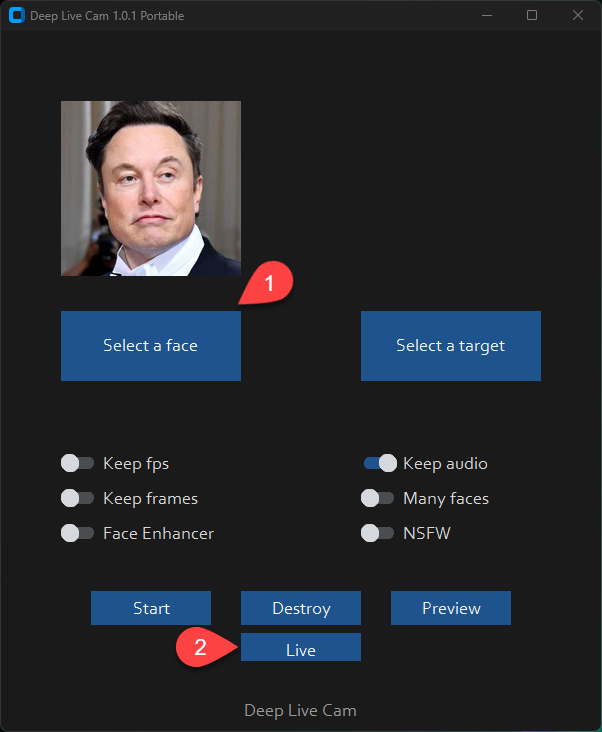
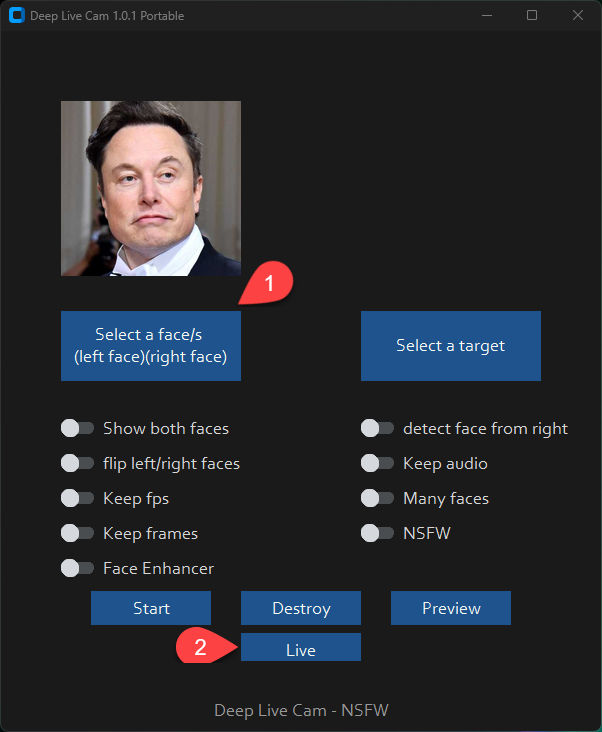
Added new two face feature for webcam, video and image

diff --git a/modules/ui.py b/modules/ui.py
@@ -7,7 +7,7 @@ from PIL import Image, ImageOps
 
 import modules.globals
 import modules.metadata
-from modules.face_analyser import get_one_face
+from modules.face_analyser import get_one_face, get_one_face_left, get_one_face_right
 from modules.capturer import get_video_frame, get_video_frame_total
 from modules.processors.frame.core import get_frame_processors_modules
 from modules.utilities import is_image, is_video, resolve_relative_path
@@ -61,36 +61,48 @@ def create_root(start: Callable[[], None], destroy: Callable[[], None]) -> ctk.C
     target_label = ctk.CTkLabel(root, text=None)
     target_label.place(relx=0.6, rely=0.1, relwidth=0.3, relheight=0.25)
 
-    select_face_button = ctk.CTkButton(root, text='Select a face', cursor='hand2', command=lambda: select_source_path())
+    select_face_button = ctk.CTkButton(root, text='Select a face/s \n(left face)(right face)', cursor='hand2', command=lambda: select_source_path())
     select_face_button.place(relx=0.1, rely=0.4, relwidth=0.3, relheight=0.1)
 
     select_target_button = ctk.CTkButton(root, text='Select a target', cursor='hand2', command=lambda: select_target_path())
     select_target_button.place(relx=0.6, rely=0.4, relwidth=0.3, relheight=0.1)
 
+    both_faces_value = ctk.BooleanVar(value=modules.globals.both_faces)
+    both_faces_checkbox = ctk.CTkSwitch(root, text='Show both faces', variable=both_faces_value, cursor='hand2', command=lambda: setattr(modules.globals, 'both_faces', not modules.globals.both_faces))
+    both_faces_checkbox.place(relx=0.1, rely=0.55)
+
+    flip_faces_value = ctk.BooleanVar(value=modules.globals.flip_faces)
+    flip_faces_checkbox = ctk.CTkSwitch(root, text='Flip left/right faces', variable=flip_faces_value, cursor='hand2', command=lambda: setattr(modules.globals, 'flip_faces', not modules.globals.flip_faces))
+    flip_faces_checkbox.place(relx=0.1, rely=0.60)
+
     keep_fps_value = ctk.BooleanVar(value=modules.globals.keep_fps)
     keep_fps_checkbox = ctk.CTkSwitch(root, text='Keep fps', variable=keep_fps_value, cursor='hand2', command=lambda: setattr(modules.globals, 'keep_fps', not modules.globals.keep_fps))
-    keep_fps_checkbox.place(relx=0.1, rely=0.6)
+    keep_fps_checkbox.place(relx=0.1, rely=0.65)
 
     keep_frames_value = ctk.BooleanVar(value=modules.globals.keep_frames)
     keep_frames_switch = ctk.CTkSwitch(root, text='Keep frames', variable=keep_frames_value, cursor='hand2', command=lambda: setattr(modules.globals, 'keep_frames', keep_frames_value.get()))
-    keep_frames_switch.place(relx=0.1, rely=0.65)
+    keep_frames_switch.place(relx=0.1, rely=0.70)
 
     # for FRAME PROCESSOR ENHANCER tumbler:
     enhancer_value = ctk.BooleanVar(value=modules.globals.fp_ui['face_enhancer'])
     enhancer_switch = ctk.CTkSwitch(root, text='Face Enhancer', variable=enhancer_value, cursor='hand2', command=lambda: update_tumbler('face_enhancer',enhancer_value.get()))
-    enhancer_switch.place(relx=0.1, rely=0.7)
+    enhancer_switch.place(relx=0.1, rely=0.75)
+
+    detect_face_right_value = ctk.BooleanVar(value=modules.globals.detect_face_right)
+    detect_face_right_checkbox = ctk.CTkSwitch(root, text='Detect face from right', variable=detect_face_right_value, cursor='hand2', command=lambda: setattr(modules.globals, 'detect_face_right', not modules.globals.detect_face_right))
+    detect_face_right_checkbox.place(relx=0.6, rely=0.55)
 
     keep_audio_value = ctk.BooleanVar(value=modules.globals.keep_audio)
     keep_audio_switch = ctk.CTkSwitch(root, text='Keep audio', variable=keep_audio_value, cursor='hand2', command=lambda: setattr(modules.globals, 'keep_audio', keep_audio_value.get()))
-    keep_audio_switch.place(relx=0.6, rely=0.6)
+    keep_audio_switch.place(relx=0.6, rely=0.60)
 
     many_faces_value = ctk.BooleanVar(value=modules.globals.many_faces)
     many_faces_switch = ctk.CTkSwitch(root, text='Many faces', variable=many_faces_value, cursor='hand2', command=lambda: setattr(modules.globals, 'many_faces', many_faces_value.get()))
     many_faces_switch.place(relx=0.6, rely=0.65)
 
-#    nsfw_value = ctk.BooleanVar(value=modules.globals.nsfw)
-#    nsfw_switch = ctk.CTkSwitch(root, text='NSFW', variable=nsfw_value, cursor='hand2', command=lambda: setattr(modules.globals, 'nsfw', nsfw_value.get()))
-#    nsfw_switch.place(relx=0.6, rely=0.7)
+  #  nsfw_value = ctk.BooleanVar(value=modules.globals.nsfw)
+  #  nsfw_switch = ctk.CTkSwitch(root, text='NSFW', variable=nsfw_value, cursor='hand2', command=lambda: setattr(modules.globals, 'nsfw', nsfw_value.get()))
+  #  nsfw_switch.place(relx=0.6, rely=0.7)
 
     start_button = ctk.CTkButton(root, text='Start', cursor='hand2', command=lambda: select_output_path(start))
     start_button.place(relx=0.15, rely=0.80, relwidth=0.2, relheight=0.05)
@@ -239,9 +251,17 @@ def update_preview(frame_number: int = 0) -> None:
             from modules.predicter import predict_frame
             if predict_frame(temp_frame):
                 quit()
+        
+        source_image_left = None  # Initialize variable for the selected face image
+        source_image_right = None  # Initialize variable for the selected face image
+        
+        if source_image_left is None and modules.globals.source_path:
+            source_image_left = get_one_face_left(cv2.imread(modules.globals.source_path))
+        if source_image_right is None and modules.globals.source_path:
+            source_image_right = get_one_face_right(cv2.imread(modules.globals.source_path))
+
         for frame_processor in get_frame_processors_modules(modules.globals.frame_processors):
-            temp_frame = frame_processor.process_frame(
-                get_one_face(cv2.imread(modules.globals.source_path)),
+            temp_frame = frame_processor.process_frame([source_image_left,source_image_right],
                 temp_frame
             )
         image = Image.fromarray(cv2.cvtColor(temp_frame, cv2.COLOR_BGR2RGB))
@@ -269,21 +289,24 @@ def webcam_preview():
 
     frame_processors = get_frame_processors_modules(modules.globals.frame_processors)
 
-    source_image = None  # Initialize variable for the selected face image
+    source_image_left = None  # Initialize variable for the selected face image
+    source_image_right = None  # Initialize variable for the selected face image
+
+    # Select and save face image only once
+    if source_image_left is None and modules.globals.source_path:
+        source_image_left = get_one_face_left(cv2.imread(modules.globals.source_path))
+    if source_image_right is None and modules.globals.source_path:
+        source_image_right = get_one_face_right(cv2.imread(modules.globals.source_path))
 
     while True:
         ret, frame = cap.read()
         if not ret:
             break
 
-        # Select and save face image only once
-        if source_image is None and modules.globals.source_path:
-            source_image = get_one_face(cv2.imread(modules.globals.source_path))
-
         temp_frame = frame.copy()  #Create a copy of the frame
 
         for frame_processor in frame_processors:
-            temp_frame = frame_processor.process_frame(source_image, temp_frame)
+            temp_frame = frame_processor.process_frame([source_image_left,source_image_right], temp_frame)
 
         image = cv2.cvtColor(temp_frame, cv2.COLOR_BGR2RGB)  # Convert the image to RGB format to display it with Tkinter
         image = Image.fromarray(image)

diff --git a/modules/processors/frame/face_swapper.py b/modules/processors/frame/face_swapper.py
@@ -6,7 +6,7 @@ import threading
 import modules.globals
 import modules.processors.frame.core
 from modules.core import update_status
-from modules.face_analyser import get_one_face, get_many_faces
+from modules.face_analyser import get_one_face, get_many_faces, get_one_face_left, get_one_face_right
 from modules.typing import Face, Frame
 from modules.utilities import conditional_download, resolve_relative_path, is_image, is_video
 
@@ -48,25 +48,64 @@ def swap_face(source_face: Face, target_face: Face, temp_frame: Frame) -> Frame:
     return get_face_swapper().get(temp_frame, target_face, source_face, paste_back=True)
 
 
-def process_frame(source_face: Face, temp_frame: Frame) -> Frame:
+def process_frame(source_face: List[Face], temp_frame: Frame) -> Frame:
     if modules.globals.many_faces:
         many_faces = get_many_faces(temp_frame)
         if many_faces:
             for target_face in many_faces:
-                temp_frame = swap_face(source_face, target_face, temp_frame)
+                temp_frame = swap_face(source_face[0], target_face, temp_frame)
     else:
-        target_face = get_one_face(temp_frame)
-        if target_face:
-            temp_frame = swap_face(source_face, target_face, temp_frame)
+        target_faces = get_two_faces(temp_frame)
+        if len(target_faces) >= 2:
+            # Swap both faces
+            if modules.globals.both_faces:
+                # Flip source faces left to right
+                if modules.globals.flip_faces:
+                    # Swap right source face with left target face
+                    temp_frame = swap_face(source_face[1], target_faces[0], temp_frame)
+                    # Swap left source face with right target face
+                    temp_frame = swap_face(source_face[0], target_faces[1], temp_frame)
+                else:
+                    # Swap left source face with left target face
+                    temp_frame = swap_face(source_face[0], target_faces[0], temp_frame)
+                    # Swap right source face with right target face
+                    temp_frame = swap_face(source_face[1], target_faces[1], temp_frame)
+            else:
+                # Swap one face with target face from left or right
+                if modules.globals.detect_face_right:
+                    # Swap left source face with right target face
+                    temp_frame = swap_face(source_face[0], target_faces[1], temp_frame)
+                else:
+                    # Swap left source face with left target face
+                    temp_frame = swap_face(source_face[0], target_faces[0], temp_frame)
+        elif len(target_faces) == 1:
+            # If only one face is found, swap with the first source face
+            # Swap one source face to target left to right face
+            if modules.globals.detect_face_right:
+                # Swap source face with right target face
+                temp_frame = swap_face(source_face[0], target_faces[1], temp_frame)
+            else:
+                # Swap source face with left target face
+                temp_frame = swap_face(source_face[0], target_faces[0], temp_frame)
+
     return temp_frame
 
 
 def process_frames(source_path: str, temp_frame_paths: List[str], progress: Any = None) -> None:
-    source_face = get_one_face(cv2.imread(source_path))
+    
+    source_image_left = None  # Initialize variable for the selected face image
+    source_image_right = None  # Initialize variable for the selected face image
+
+    if source_image_left is None and source_path:
+        source_image_left = get_one_face_left(cv2.imread(source_path))
+    if source_image_right is None and source_path:
+        source_image_right = get_one_face_right(cv2.imread(source_path))
+
+
     for temp_frame_path in temp_frame_paths:
         temp_frame = cv2.imread(temp_frame_path)
         try:
-            result = process_frame(source_face, temp_frame)
+            result = process_frame([source_image_left,source_image_right], temp_frame)
             cv2.imwrite(temp_frame_path, result)
         except Exception as exception:
             print(exception)
@@ -76,11 +115,28 @@ def process_frames(source_path: str, temp_frame_paths: List[str], progress: Any 
 
 
 def process_image(source_path: str, target_path: str, output_path: str) -> None:
+    
+    source_image_left = None  # Initialize variable for the selected face image
+    source_image_right = None  # Initialize variable for the selected face image
+
+    if source_image_left is None and source_path:
+        source_image_left = get_one_face_left(cv2.imread(source_path))
+    if source_image_right is None and source_path:
+        source_image_right = get_one_face_right(cv2.imread(source_path))
+
     source_face = get_one_face(cv2.imread(source_path))
     target_frame = cv2.imread(target_path)
-    result = process_frame(source_face, target_frame)
+    result = process_frame([source_image_left,source_image_right], target_frame)
     cv2.imwrite(output_path, result)
 
 
 def process_video(source_path: str, temp_frame_paths: List[str]) -> None:
     modules.processors.frame.core.process_video(source_path, temp_frame_paths, process_frames)
+
+def get_two_faces(frame: Frame) -> List[Face]:
+    faces = get_many_faces(frame)
+    if faces:
+        # Sort faces from left to right based on the x-coordinate of the bounding box
+        sorted_faces = sorted(faces, key=lambda x: x.bbox[0])
+        return sorted_faces[:2]  # Return up to two faces, leftmost and rightmost
+    return []

diff --git a/modules/core.py b/modules/core.py
@@ -46,6 +46,10 @@ def parse_args() -> None:
     program.add_argument('--execution-threads', help='number of execution threads', dest='execution_threads', type=int, default=suggest_execution_threads())
     program.add_argument('-v', '--version', action='version', version=f'{modules.metadata.name} {modules.metadata.version}')
 
+    program.add_argument('--both-faces', help='use two faces in source image', dest='both_faces', action='store_true', default=False)
+    program.add_argument('--flip-faces', help='flip two faces in source image from right to left', dest='flip_faces', action='store_true', default=False)
+    program.add_argument('--detect-face-right', help='detect target face from right of frame', dest='detect_face_right', action='store_true', default=False)
+
     # register deprecated args
     program.add_argument('-f', '--face', help=argparse.SUPPRESS, dest='source_path_deprecated')
     program.add_argument('--cpu-cores', help=argparse.SUPPRESS, dest='cpu_cores_deprecated', type=int)
@@ -68,6 +72,10 @@ def parse_args() -> None:
     modules.globals.max_memory = args.max_memory
     modules.globals.execution_providers = decode_execution_providers(args.execution_provider)
     modules.globals.execution_threads = args.execution_threads
+    modules.globals.both_faces = args.both_faces
+    modules.globals.flip_faces = args.flip_faces
+    modules.globals.detect_face_right = args.detect_face_right
+
 
     #for ENHANCER tumbler:
     if 'face_enhancer' in args.frame_processor:

diff --git a/modules/face_analyser.py b/modules/face_analyser.py
@@ -29,3 +29,17 @@ def get_many_faces(frame: Frame) -> Any:
         return get_face_analyser().get(frame)
     except IndexError:
         return None
+    
+def get_one_face_left(frame: Frame) -> Any:
+    face = get_face_analyser().get(frame)
+    try:
+        return min(face, key=lambda x: x.bbox[0])
+    except ValueError:
+        return None
+    
+def get_one_face_right(frame: Frame) -> Any:
+    face = get_face_analyser().get(frame)
+    try:
+        return max(face, key=lambda x: x.bbox[0])
+    except ValueError:
+        return None

diff --git a/modules/globals.py b/modules/globals.py
@@ -28,3 +28,6 @@ fp_ui: Dict[str, bool] = {}
 nsfw = None
 camera_input_combobox = None
 webcam_preview_running = False
+both_faces = None
+flip_faces = None
+detect_face_right = None

diff --git a/README.md b/README.md
@@ -1,4 +1,16 @@
+Deep-Live-Cam is compatible with webcam, video or an image
+
+One face replaced with live webcam
+
 ![demo-gif](demo.gif)
+
+Two faces replaced on webcam
+
+![DemoTwoFace.gif](DemoTwoFace.gif)
+
+Also supports processing of an image or video file with one or two faces in source image
+
+![DemoTwoFace.png](DemoTwoFace.png)
 
 
 ## Disclaimer
@@ -133,7 +145,7 @@ Choose a face (image with desired face) and the target image/video (image/video 
 
 ## For the webcam mode
 Just follow the clicks on the screenshot
-1. Select a face
+1. Select a face. You can select an image that has one face or two faces. Left face will be used as face one and right face will be used as face two.
 2. Click live
 3. Wait for a few seconds (it takes a longer time, usually 10 to 30 seconds before the preview shows up)
 
@@ -141,6 +153,23 @@ Just follow the clicks on the screenshot
 
 Just use your favorite screencapture to stream like OBS
 > Note: In case you want to change your face, just select another picture, the preview mode will then restart (so just wait a bit).
+
+When you select an image with two faces then both faces will be replaced on webcam. Person on left will use left face and person on right will use right face from your image.
+
+![DemoTwoFace.gif](DemoTwoFace.gif)
+
+## One/Two face controls for webcam mode, video or image
+You can control how a face/s is replaced on target face
+
+![FaceControls.png](FaceControls.png)
+
+1. Show both faces - When you select an image with two faces you will need to enable this option to replace both target faces on webcam, video or image. By default left face is always used.
+
+2. Flip left/right faces - You can flip both source faces in your image. By default left face will replace left target face and right face will replace right target face. Turning on this option will flip source faces on target to right->left
+
+3. Detect face from right - When using one face by default the target face is detected from left of webcam, video or image. Turning on this option will replace target face detected from right.
+
+
 
 
 Additional command line arguments are given below. To learn out what they do, check [this guide](https://github.com/s0md3v/roop/wiki/Advanced-Options).
@@ -156,6 +185,9 @@ options:
   --keep-audio                                             keep original audio
   --keep-frames                                            keep temporary frames
   --many-faces                                             process every face
+  --both-faces                                             use two faces in source image
+  --flip-faces                                             flip two faces in source image from right to left
+  --detect-face-right                                      detect target face from right of frame
   --video-encoder {libx264,libx265,libvpx-vp9}             adjust output video encoder
   --video-quality [0-51]                                   adjust output video quality
   --max-memory MAX_MEMORY                                  maximum amount of RAM in GB
